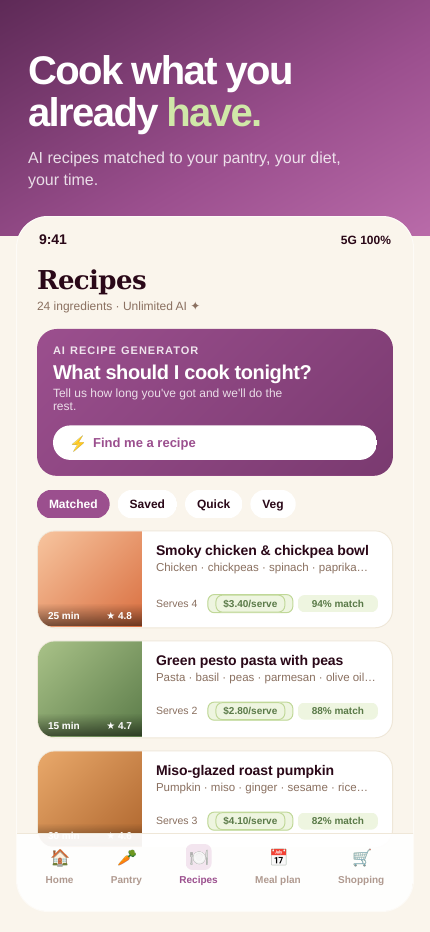
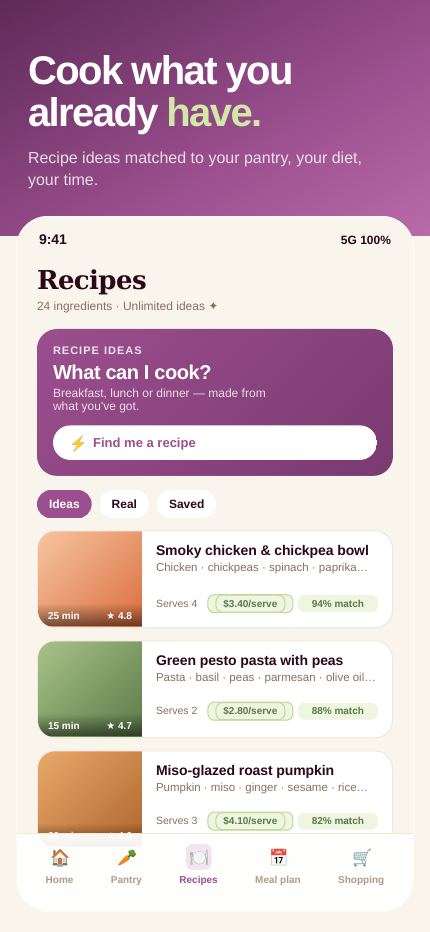
Remove AI wording, update recipes screenshot

diff --git a/index.html b/index.html
@@ -198,7 +198,7 @@
       <div class="ss-window">
         <div class="ss-slide active" data-idx="0"><div class="ss-frame"><img src="assets/screenshots/home.png?v=3" alt="Stokkt home screen showing a personal greeting, pantry stats and what is expiring" loading="lazy" /></div><div class="ss-caption">Home</div><div class="ss-sub">Your kitchen, at a glance</div></div>
         <div class="ss-slide" data-idx="1"><div class="ss-frame"><img src="assets/screenshots/pantry.png?v=3" alt="Stokkt pantry with receipt-scanned items and Receipt, Email, Scan and Add buttons" loading="lazy" /></div><div class="ss-caption">Pantry</div><div class="ss-sub">Your whole shop, scanned in seconds</div></div>
-        <div class="ss-slide" data-idx="2"><div class="ss-frame"><img src="assets/screenshots/recipes.png?v=3" alt="Stokkt recipes matched to what is in the pantry, with cost per serve" loading="lazy" /></div><div class="ss-caption">Recipes</div><div class="ss-sub">Matched to what you already have</div></div>
+        <div class="ss-slide" data-idx="2"><div class="ss-frame"><img src="assets/screenshots/recipes.png?v=4" alt="Stokkt recipes matched to what is in the pantry, with cost per serve" loading="lazy" /></div><div class="ss-caption">Recipes</div><div class="ss-sub">Matched to what you already have</div></div>
         <div class="ss-slide" data-idx="3"><div class="ss-frame"><img src="assets/screenshots/mealplan.png?v=3" alt="Stokkt meal plan for the week with weekly cost summary" loading="lazy" /></div><div class="ss-caption">Meal Plan</div><div class="ss-sub">A full week, in one tap</div></div>
         <div class="ss-slide" data-idx="4"><div class="ss-frame"><img src="assets/screenshots/shopping.png?v=3" alt="Stokkt shopping list with Quick add, your regulars and items for your meal plan" loading="lazy" /></div><div class="ss-caption">Shopping</div><div class="ss-sub">The list that writes itself</div></div>
         <div class="ss-slide" data-idx="5"><div class="ss-frame"><img src="assets/screenshots/household.png?v=3" alt="Stokkt household screen showing a pantry, meal plan, shopping list and recipes shared between two people" loading="lazy" /></div><div class="ss-caption">Share your kitchen</div><div class="ss-sub">One kitchen, two cooks</div></div>
@@ -227,10 +227,10 @@
       <div class="feature-card"><div class="feature-icon"><svg viewBox="0 0 24 24" fill="none" stroke="currentColor" stroke-width="2" stroke-linecap="round" stroke-linejoin="round"><path d="M4 2v20l2-1 2 1 2-1 2 1 2-1 2 1 2-1 2 1V2l-2 1-2-1-2 1-2-1-2 1-2-1-2 1Z"/><path d="M16 8h-6a2 2 0 1 0 0 4h4a2 2 0 1 1 0 4H8"/><path d="M12 17.5v-11"/></svg></div><h3 class="feature-title">Scan &amp; stock instantly</h3><p class="feature-desc">Photograph a receipt and your entire shop lands in your pantry — quantities, categories, and expiry dates captured automatically. No manual entry required.</p></div>
       <div class="feature-card"><div class="feature-icon"><svg viewBox="0 0 24 24" fill="none" stroke="currentColor" stroke-width="2" stroke-linecap="round" stroke-linejoin="round"><rect width="18" height="18" x="3" y="4" rx="2"/><path d="M16 2v4"/><path d="M8 2v4"/><path d="M3 10h18"/></svg></div><h3 class="feature-title">Plan your week in one tap</h3><p class="feature-desc">Generate a full week of meal ideas built around your pantry, your household, and your dietary preferences. Stokkt prioritises items expiring soon so nothing goes to waste.</p></div>
       <div class="feature-card"><div class="feature-icon"><svg viewBox="0 0 24 24" fill="none" stroke="currentColor" stroke-width="2" stroke-linecap="round" stroke-linejoin="round"><path d="M17 21a1 1 0 0 0 1-1v-5.35c0-.457.316-.844.727-1.041a4 4 0 0 0-2.134-7.589 5 5 0 0 0-9.186 0 4 4 0 0 0-2.134 7.588c.411.198.727.585.727 1.041V20a1 1 0 0 0 1 1Z"/><path d="M6 17h12"/></svg></div><h3 class="feature-title">Cook Mode — hands free</h3><p class="feature-desc">Open any recipe and Cook Mode guides you through every step. Your screen stays awake, you tap through each stage, and when you finish your pantry updates automatically. No more phone-propping, no more losing your place.</p></div>
-      <div class="feature-card"><div class="feature-icon"><svg viewBox="0 0 24 24" fill="none" stroke="currentColor" stroke-width="2" stroke-linecap="round" stroke-linejoin="round"><path d="M2 12h20"/><path d="M20 12v8a2 2 0 0 1-2 2H6a2 2 0 0 1-2-2v-8"/><path d="m4 8 16-4"/><path d="m8.86 6.78-.45-1.81a2 2 0 0 1 1.45-2.43l1.94-.48a2 2 0 0 1 2.43 1.46l.45 1.8"/></svg></div><h3 class="feature-title">300,000+ real recipes</h3><p class="feature-desc">Match your pantry to tried-and-tested recipes you can cook right now — or let AI generate something completely original from exactly what you have in stock.</p></div>
+      <div class="feature-card"><div class="feature-icon"><svg viewBox="0 0 24 24" fill="none" stroke="currentColor" stroke-width="2" stroke-linecap="round" stroke-linejoin="round"><path d="M2 12h20"/><path d="M20 12v8a2 2 0 0 1-2 2H6a2 2 0 0 1-2-2v-8"/><path d="m4 8 16-4"/><path d="m8.86 6.78-.45-1.81a2 2 0 0 1 1.45-2.43l1.94-.48a2 2 0 0 1 2.43 1.46l.45 1.8"/></svg></div><h3 class="feature-title">300,000+ real recipes</h3><p class="feature-desc">Match your pantry to tried-and-tested recipes you can cook right now — or get a fresh recipe idea made from exactly what you have in stock.</p></div>
       <div class="feature-card"><div class="feature-icon"><svg viewBox="0 0 24 24" fill="none" stroke="currentColor" stroke-width="2" stroke-linecap="round" stroke-linejoin="round"><circle cx="8" cy="21" r="1"/><circle cx="19" cy="21" r="1"/><path d="M2.05 2.05h2l2.66 12.42a2 2 0 0 0 2 1.58h9.78a2 2 0 0 0 1.95-1.57l1.65-7.43H5.12"/></svg></div><h3 class="feature-title">Your list, built for you</h3><p class="feature-desc">Stokkt knows what's running low, what's expired, and what your meal plan needs. Your shopping list writes itself — organised and ready to go.</p></div>
       <div class="feature-card"><div class="feature-icon"><svg viewBox="0 0 24 24" fill="none" stroke="currentColor" stroke-width="2" stroke-linecap="round" stroke-linejoin="round"><path d="M11 20A7 7 0 0 1 9.8 6.1C15.5 5 17 4.48 19.2 2.96a1 1 0 0 1 1.8.66 22.45 22.45 0 0 1-3 12.8C16.62 19.86 13 22 11 20Z"/><path d="M2 21c0-3 1.85-5.36 5.08-6"/></svg></div><h3 class="feature-title">Zero food waste</h3><p class="feature-desc">Push notifications alert you 3 days before anything expires. Expiring items are automatically prioritised in recipe suggestions so they get used, not thrown out.</p></div>
-      <div class="feature-card pro"><div class="feature-icon"><svg viewBox="0 0 24 24" fill="currentColor" stroke="currentColor" stroke-width="2" stroke-linejoin="round"><polygon points="12 2 15.09 8.26 22 9.27 17 14.14 18.18 21.02 12 17.77 5.82 21.02 7 14.14 2 9.27 8.91 8.26 12 2"/></svg></div><h3 class="feature-title">Stokkt Pro</h3><p class="feature-desc">Four upgrades: unlimited receipt scans, the full 7-day meal planner, one-tap Clear-Outs that use up the fridge, and a shared kitchen — one subscription covers two people. Plus unlimited AI recipes and 300,000+ real recipes. Try Pro free for 7 days, then $9.99/month AUD or $79.99/year. Cancel anytime.</p></div>
+      <div class="feature-card pro"><div class="feature-icon"><svg viewBox="0 0 24 24" fill="currentColor" stroke="currentColor" stroke-width="2" stroke-linejoin="round"><polygon points="12 2 15.09 8.26 22 9.27 17 14.14 18.18 21.02 12 17.77 5.82 21.02 7 14.14 2 9.27 8.91 8.26 12 2"/></svg></div><h3 class="feature-title">Stokkt Pro</h3><p class="feature-desc">Four upgrades: unlimited receipt scans, the full 7-day meal planner, one-tap Clear-Outs that use up the fridge, and a shared kitchen — one subscription covers two people. Plus unlimited recipe ideas and 300,000+ real recipes. Try Pro free for 7 days, then $9.99/month AUD or $79.99/year. Cancel anytime.</p></div>
     </div>
   </section>
 

diff --git a/screenshots_v2.html b/screenshots_v2.html
@@ -660,7 +660,7 @@
 <section id="s3" class="screen screen--recipes">
   <div class="hero">
     <h1>Cook what you<br>already <span class="accent">have.</span></h1>
-    <p>AI recipes matched to your pantry, your diet, your time.</p>
+    <p>Recipe ideas matched to your pantry, your diet, your time.</p>
   </div>
   <div class="pane">
     <div class="sbar">
@@ -670,22 +670,21 @@
     <div class="r-head">
       <div>
         <h2>Recipes</h2>
-        <div class="sub">24 ingredients  ·  Unlimited AI ✦</div>
+        <div class="sub">24 ingredients  ·  Unlimited ideas ✦</div>
       </div>
     </div>
 
     <div class="r-cta">
-      <div class="label">AI Recipe Generator</div>
-      <div class="title">What should I cook tonight?</div>
-      <div class="help">Tell us how long you've got and we'll do the rest.</div>
+      <div class="label">Recipe ideas</div>
+      <div class="title">What can I cook?</div>
+      <div class="help">Breakfast, lunch or dinner — made from what you've got.</div>
       <div class="btn"><span class="emoji">⚡</span>  Find me a recipe</div>
     </div>
 
     <div class="r-filters">
-      <span class="chip chip--active">Matched</span>
+      <span class="chip chip--active">Ideas</span>
+      <span class="chip">Real</span>
       <span class="chip">Saved</span>
-      <span class="chip">Quick</span>
-      <span class="chip">Veg</span>
     </div>
 
     <div class="r-list">
